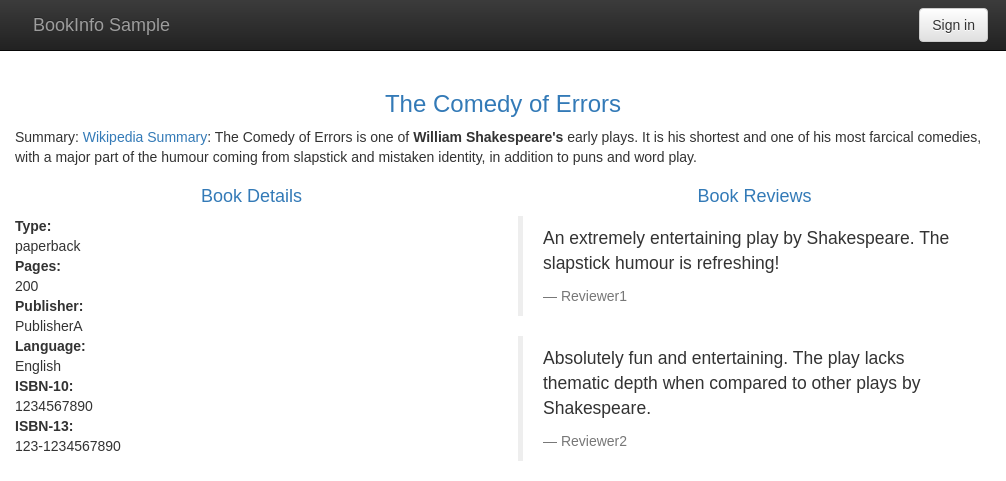
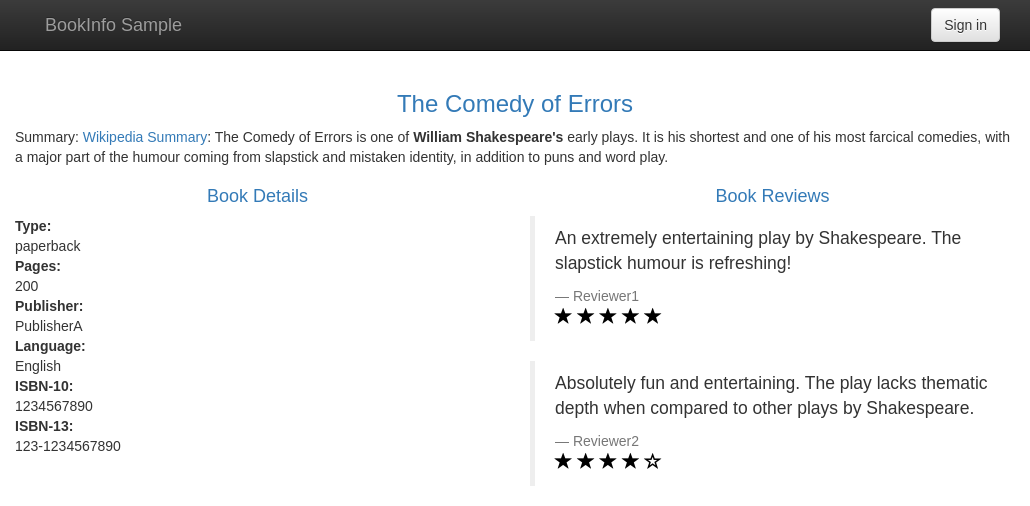
Reactored urls due to no need to use `.bookinfo.svc`

diff --git a/posts/migrating-apps-to-openshift/2-proof-of-concept.md b/posts/migrating-apps-to-openshift/2-proof-of-concept.md
@@ -220,7 +220,7 @@ $ curl "http://$host/ratings/1"
 
 - Yay! However, we're not actually hooked up to the database just yet. To do so we need to make sure the `SERVICE_VERSION` environment variable is set to `v2` and set the `MONGO_DB_URL` environment variable to point to our mongodb service.
 
-- `MONGO_DB_URL`: `mongodb.bookinfo.svc:27017` -> due to the default [DNS-based service discovery](https://docs.openshift.com/container-platform/3.11/architecture/networking/networking.html#architecture-additional-concepts-openshift-dns) for services
+- Due to the default [DNS-based service discovery](https://docs.openshift.com/container-platform/3.11/architecture/networking/networking.html#architecture-additional-concepts-openshift-dns) for services, can just use `mongodb:27017`.
 
 ```console
 $ oc patch dc ratings -p "$(cat .k8s/patches/2-dc-mongo.yml)"
@@ -489,6 +489,25 @@ $ curl "http://$host/reviews/1"
 {"id": "1","reviews": [{  "reviewer": "Reviewer1",  "text": "An extremely entertaining play by Shakespeare. The slapstick humour is refreshing!"},{  "reviewer": "Reviewer2",  "text": "Absolutely fun and entertaining. The play lacks thematic depth when compared to other plays by Shakespeare."}]}
 ```
 
+- Now, we want it to be able to hit the ratings service, so need the following env vars (todo: add link from docs or code):
+  - `ENABLE_RATINGS`: true
+- Checking the code, will also need to fix the hard coded 9080 port
+
+```console
+$ oc patch dc reviews -p "$(cat .k8s/patches/3-dc-ratings.yml)"
+buildconfig.build.openshift.io/reviews patched
+
+$ oc patch bc reviews -p "$(cat .k8s/patches/4-bc-ref.yml)"
+buildconfig.build.openshift.io/reviews patched
+
+$ oc start-build reviews
+build.build.openshift.io/reviews-3 started
+
+$ curl "http://$host/reviews/1"
+{"id": "1","reviews": [{  "reviewer": "Reviewer1",  "text": "An extremely entertaining play by Shakespeare. The slapstick humour is refreshing!", "rating": {"stars": 5, "color": "black"}},{  "reviewer": "Reviewer2",  "text": "Absolutely fun and entertaining. The play lacks thematic depth when compared to other plays by Shakespeare.", "rating": {"stars": 4, "color": "black"}}]}
+```
+
+- Notice our reviews now include ratings
 - Done!
 
 ## Product Page (Python)
@@ -544,6 +563,8 @@ svc/productpage - x.x.x.x:8080
 
 - that looks better, let's open the ui and see how if it works
 
+![Product page error!](../../images/migrating-apps-to-openshift/productpage-error.png)
+
 ```console
 $ oc expose svc productpage
 route.route.openshift.io/productpage exposed
@@ -562,17 +583,13 @@ DEBUG:urllib3.connectionpool:Starting new HTTP connection (1): reviews:9080
 ```
 
 - Looks like we need to fix up the URLs
-- We can use the `SERVICES_DOMAIN` envvar to pick up the services, the hostnames should all match
-- Looks like the ports are currently harcoded to 9080 though, so we'll need to fix that
+- Looks like the ports are currently harcoded to 9080, so we'll need to fix that
 - May as well just hard code it for now, get it up and running and all that
 - View the changes here: todo: add link to changes
-- Apply the patch to the bc for latest version as well as patch to the dc for the services domain envvar (this changes per env so should be in dc not `.s2i/environment`)
+- Apply the patch to the bc for latest version
 
 ```console
-$ oc patch dc productpage -p "$(cat .k8s/patches/2-dc-domain.yml)"
-deploymentconfig.apps.openshift.io/productpage patched
-
-$ oc patch bc productpage -p "$(cat .k8s/patches/3-bc-ref.yml)"
+$ oc patch bc productpage -p "$(cat .k8s/patches/2-bc-ref.yml)"
 buildconfig.build.openshift.io/productpage patched
 
 $ oc start-build productpage
@@ -580,10 +597,14 @@ build.build.openshift.io/productpage-3 started
 ```
 
 - Test it out again in the browser
+
+![Product page success!](../../images/migrating-apps-to-openshift/productpage-success.png)
+
 - et voilà
 
 ## To Do
 
+- Move envvars to deploymentconfig patch, ecept for reviews `MAVEN_S2I_ARTIFACT_DIRS`
 - Double check repo links
 - Make reviews use ratings service
 - Link to actual istio documentation for envvars etc for the actual services
